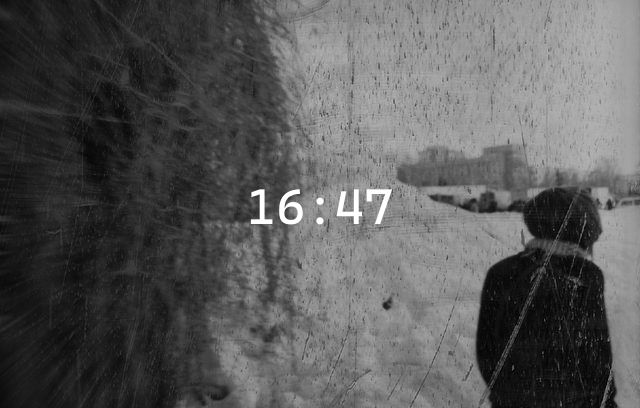
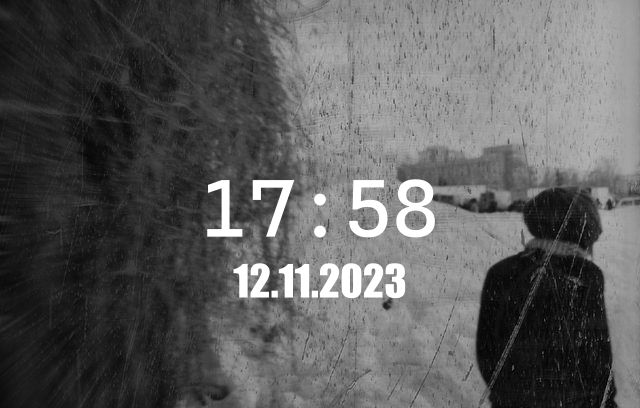
wip: generate image with text due sharp.js;

Changed region(s): [[0.3125, 0.4412, 0.6875, 0.5882], [0.3438, 0.6471, 0.6562, 0.7353]]

diff --git a/scripts/generateImgWithText/generateText.js b/scripts/generateImgWithText/generateText.js
@@ -5,7 +5,7 @@ async function main() {
 
   // current date
   // adjust 0 before single digit date
-  let date = ('0' + date_ob.getDate()).slice(-2);
+  let day = ('0' + date_ob.getDate()).slice(-2);
 
   // current month
   let month = ('0' + (date_ob.getMonth() + 1)).slice(-2);
@@ -22,35 +22,55 @@ async function main() {
   // current seconds
   let seconds = date_ob.getSeconds();
 
-  let width = 200;
-  let height = 100;
-  let label = `${hours}:${minutes}`;
+  const width = 200;
+  const height = 100;
+
+  const timeLabel = `${hours}:${minutes}`;
+  const dateLabel = `${day}.${month}.${year}`;
+
+  console.log('___', dateLabel);
 
   const image = await sharp('./1.jpg');
   const metadata = await image.metadata()
 
-  const bg = Buffer.from(`
+  const shadow = Buffer.from(`
     <svg height="${metadata.height}" width="${metadata.width}">
       <rect x="0" y="0" width="100%" height="100%" fill="#000" fill-opacity="0.3" />
     </svg>
   `);
 
-  const svg = Buffer.from(`
-    <svg height="${height}" width="${width}">
-      <text x="50%" y="50%" text-anchor="middle" dy="0.4em" font-size="${width / 4}" fill="#fff" font-family="sans">
-        ${label}
+  const timeHeight = metadata.height / 2;
+
+  const time = Buffer.from(`
+    <svg height="${timeHeight}" width="${metadata.width}">
+      <text x="50%" y="50%" text-anchor="middle" dy="0.4em" font-size="${timeHeight / 2.5}" fill="#fff" font-family="sans">
+        ${timeLabel}
       </text> 
     </svg>
-`);
+  `);
+
+  const dateHeight = metadata.height / 1.6;
+
+  const date = Buffer.from(`
+    <svg height="${dateHeight}" width="${metadata.width}">
+      <text x="50%" y="50%" text-anchor="middle" dy="0.4em" font-size="${dateHeight / 6}" font-stretch="ultra-condensed" fill="#fff" font-family="sans">
+        ${dateLabel}
+      </text> 
+    </svg>
+  `);
 
   const compositeImages = [
     {
-      input: bg,
-      gravity: 'centre'
+      input: shadow,
+      gravity: 'center'
     },
     {
-      input: svg,
-      gravity: 'center',
+      input: time,
+      gravity: 'center'
+    },
+    {
+      input: date,
+      gravity: 'south'
     }
   ];
 
